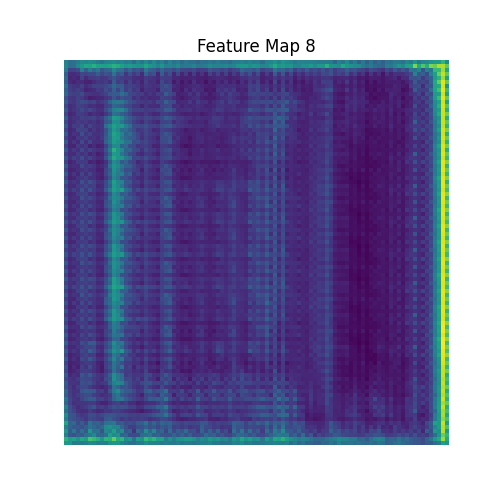
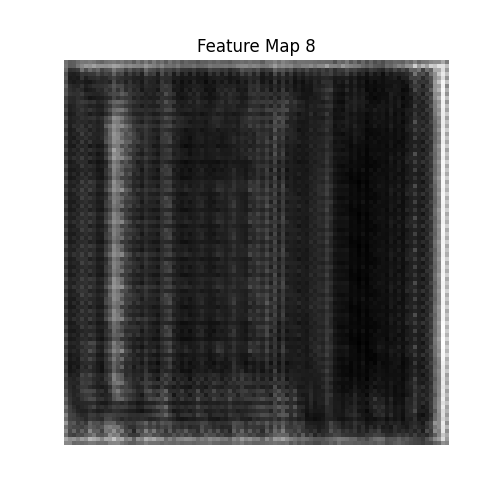
r-module

diff --git a/testing_2.py b/testing_2.py
@@ -104,7 +104,7 @@ def main():
     # Let's visualize and save the first 5 feature maps
     for i in range(10):
         plt.figure(figsize=(5, 5))
-        plt.imshow(feature_maps[:, :, i], cmap='viridis')  
+        plt.imshow(feature_maps[:, :, i], cmap='gray')  
         plt.title(f'Feature Map {i+1}')
         plt.axis('off')
         plt.savefig(f'{args.out}/feature_map_{i+1}.png')
